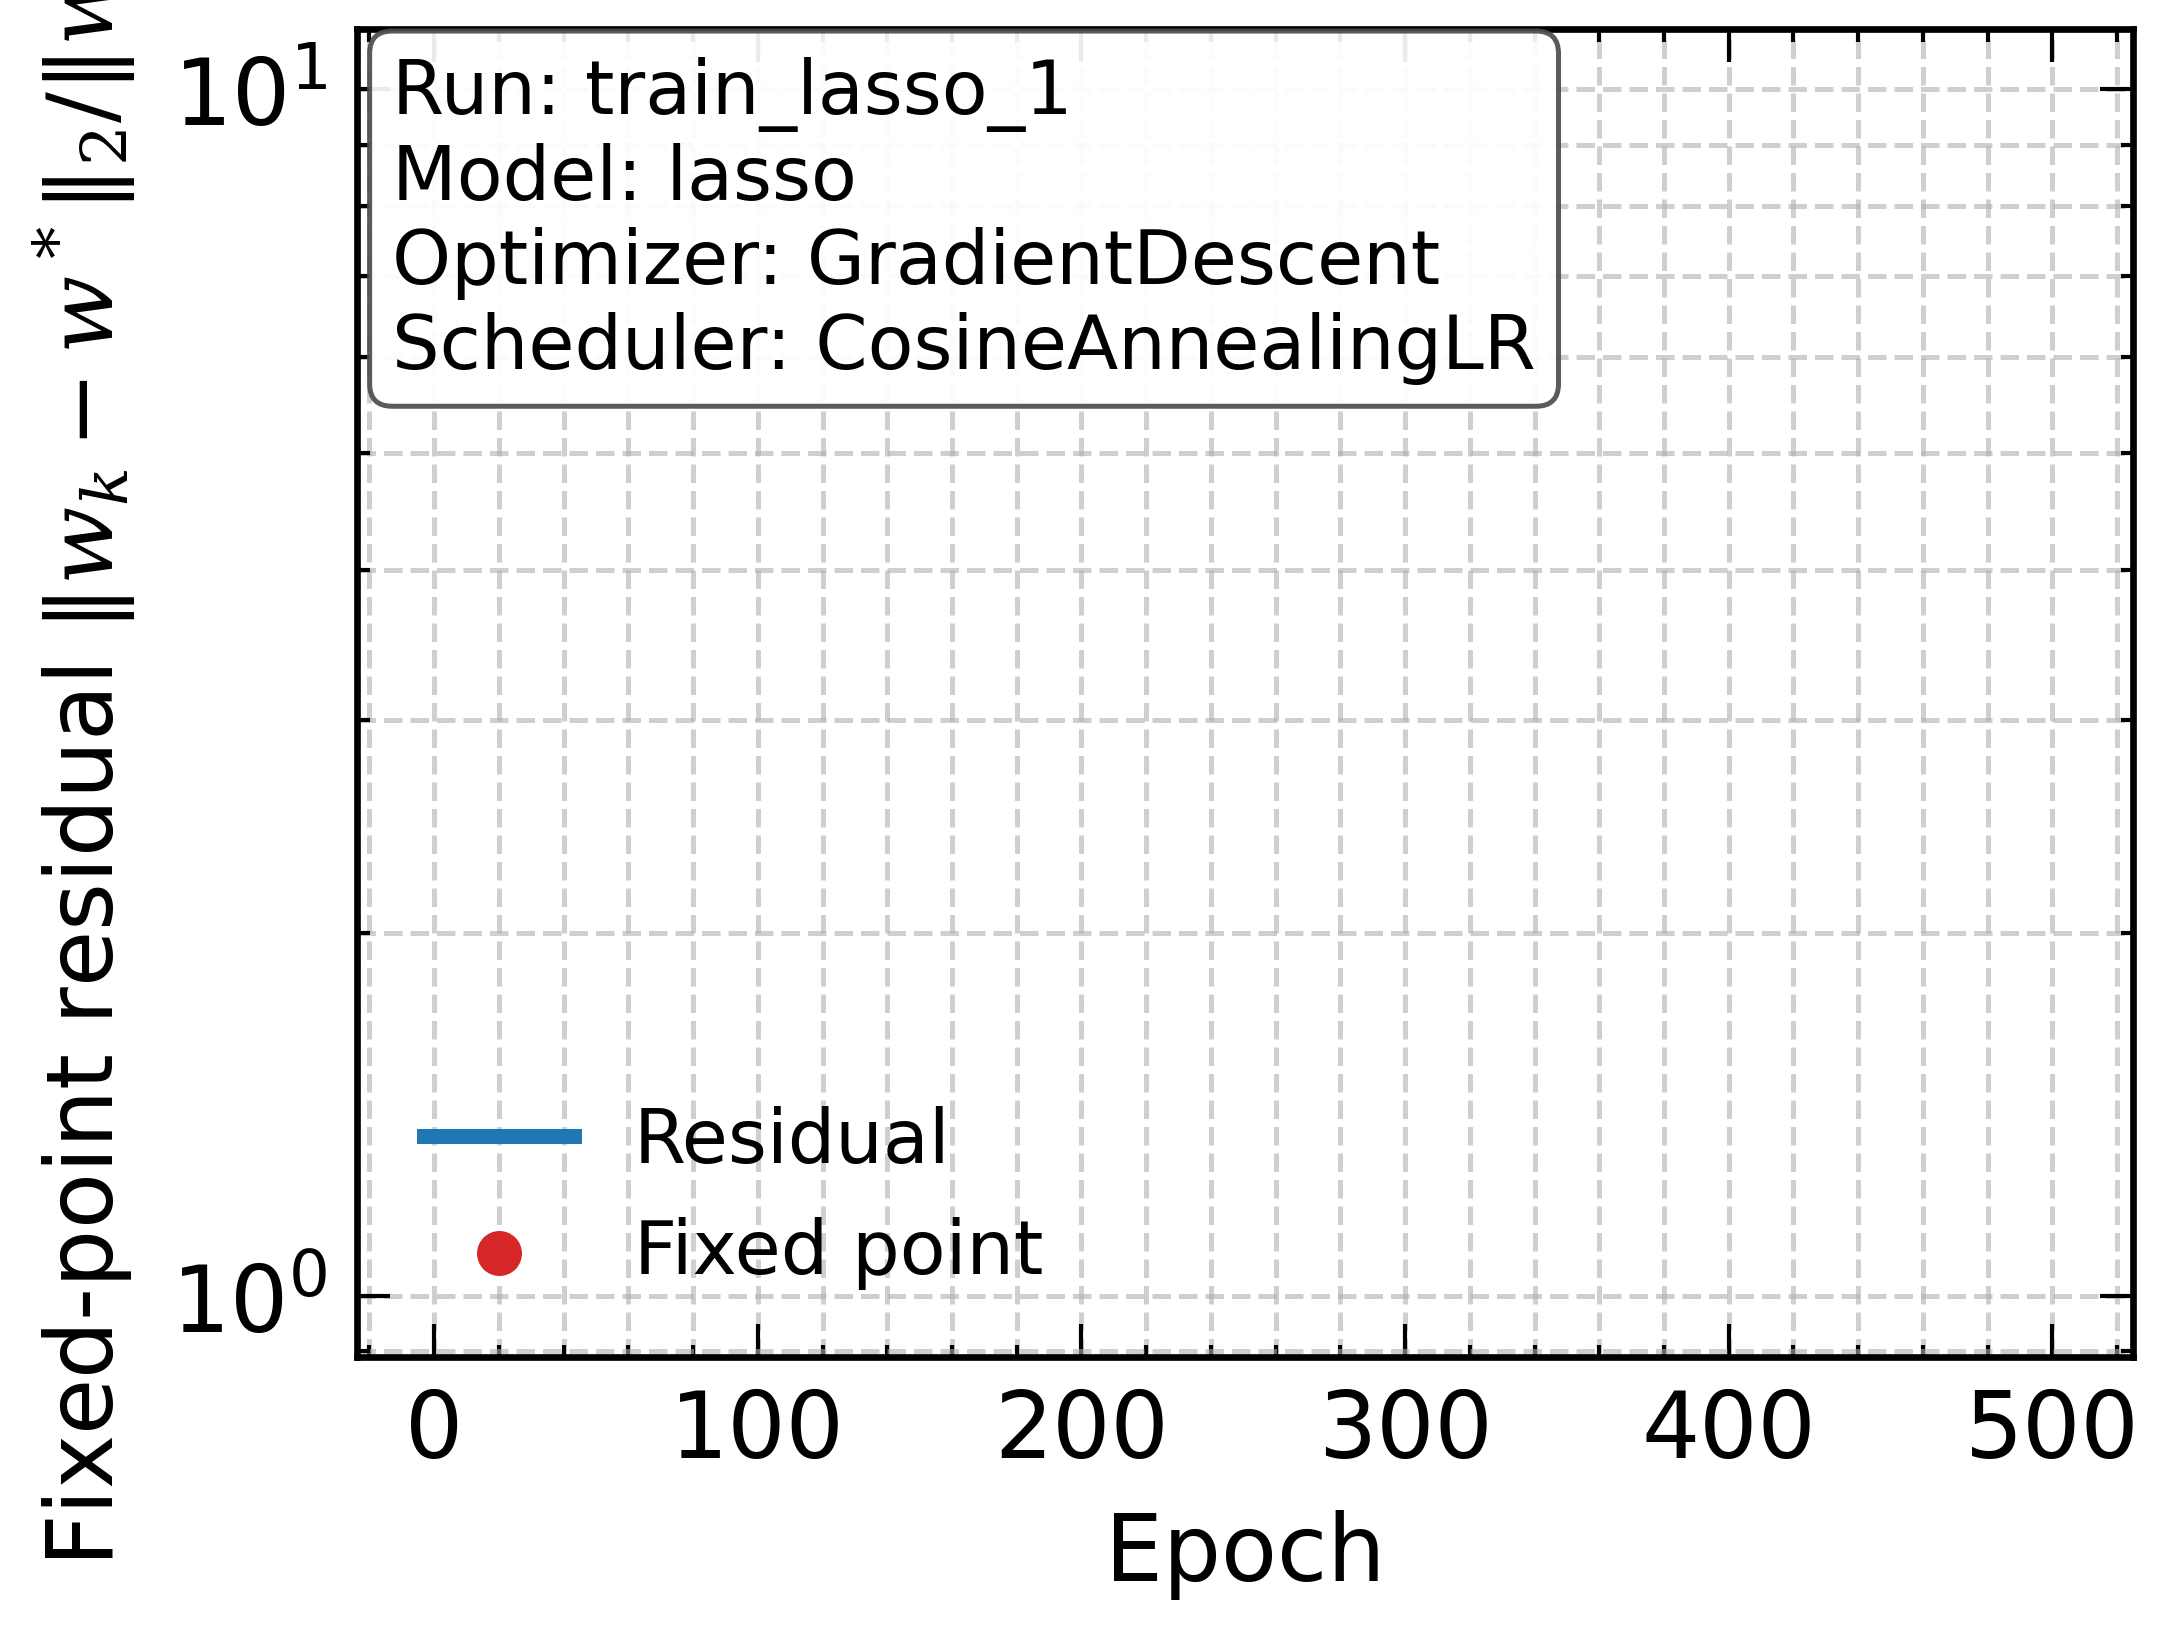
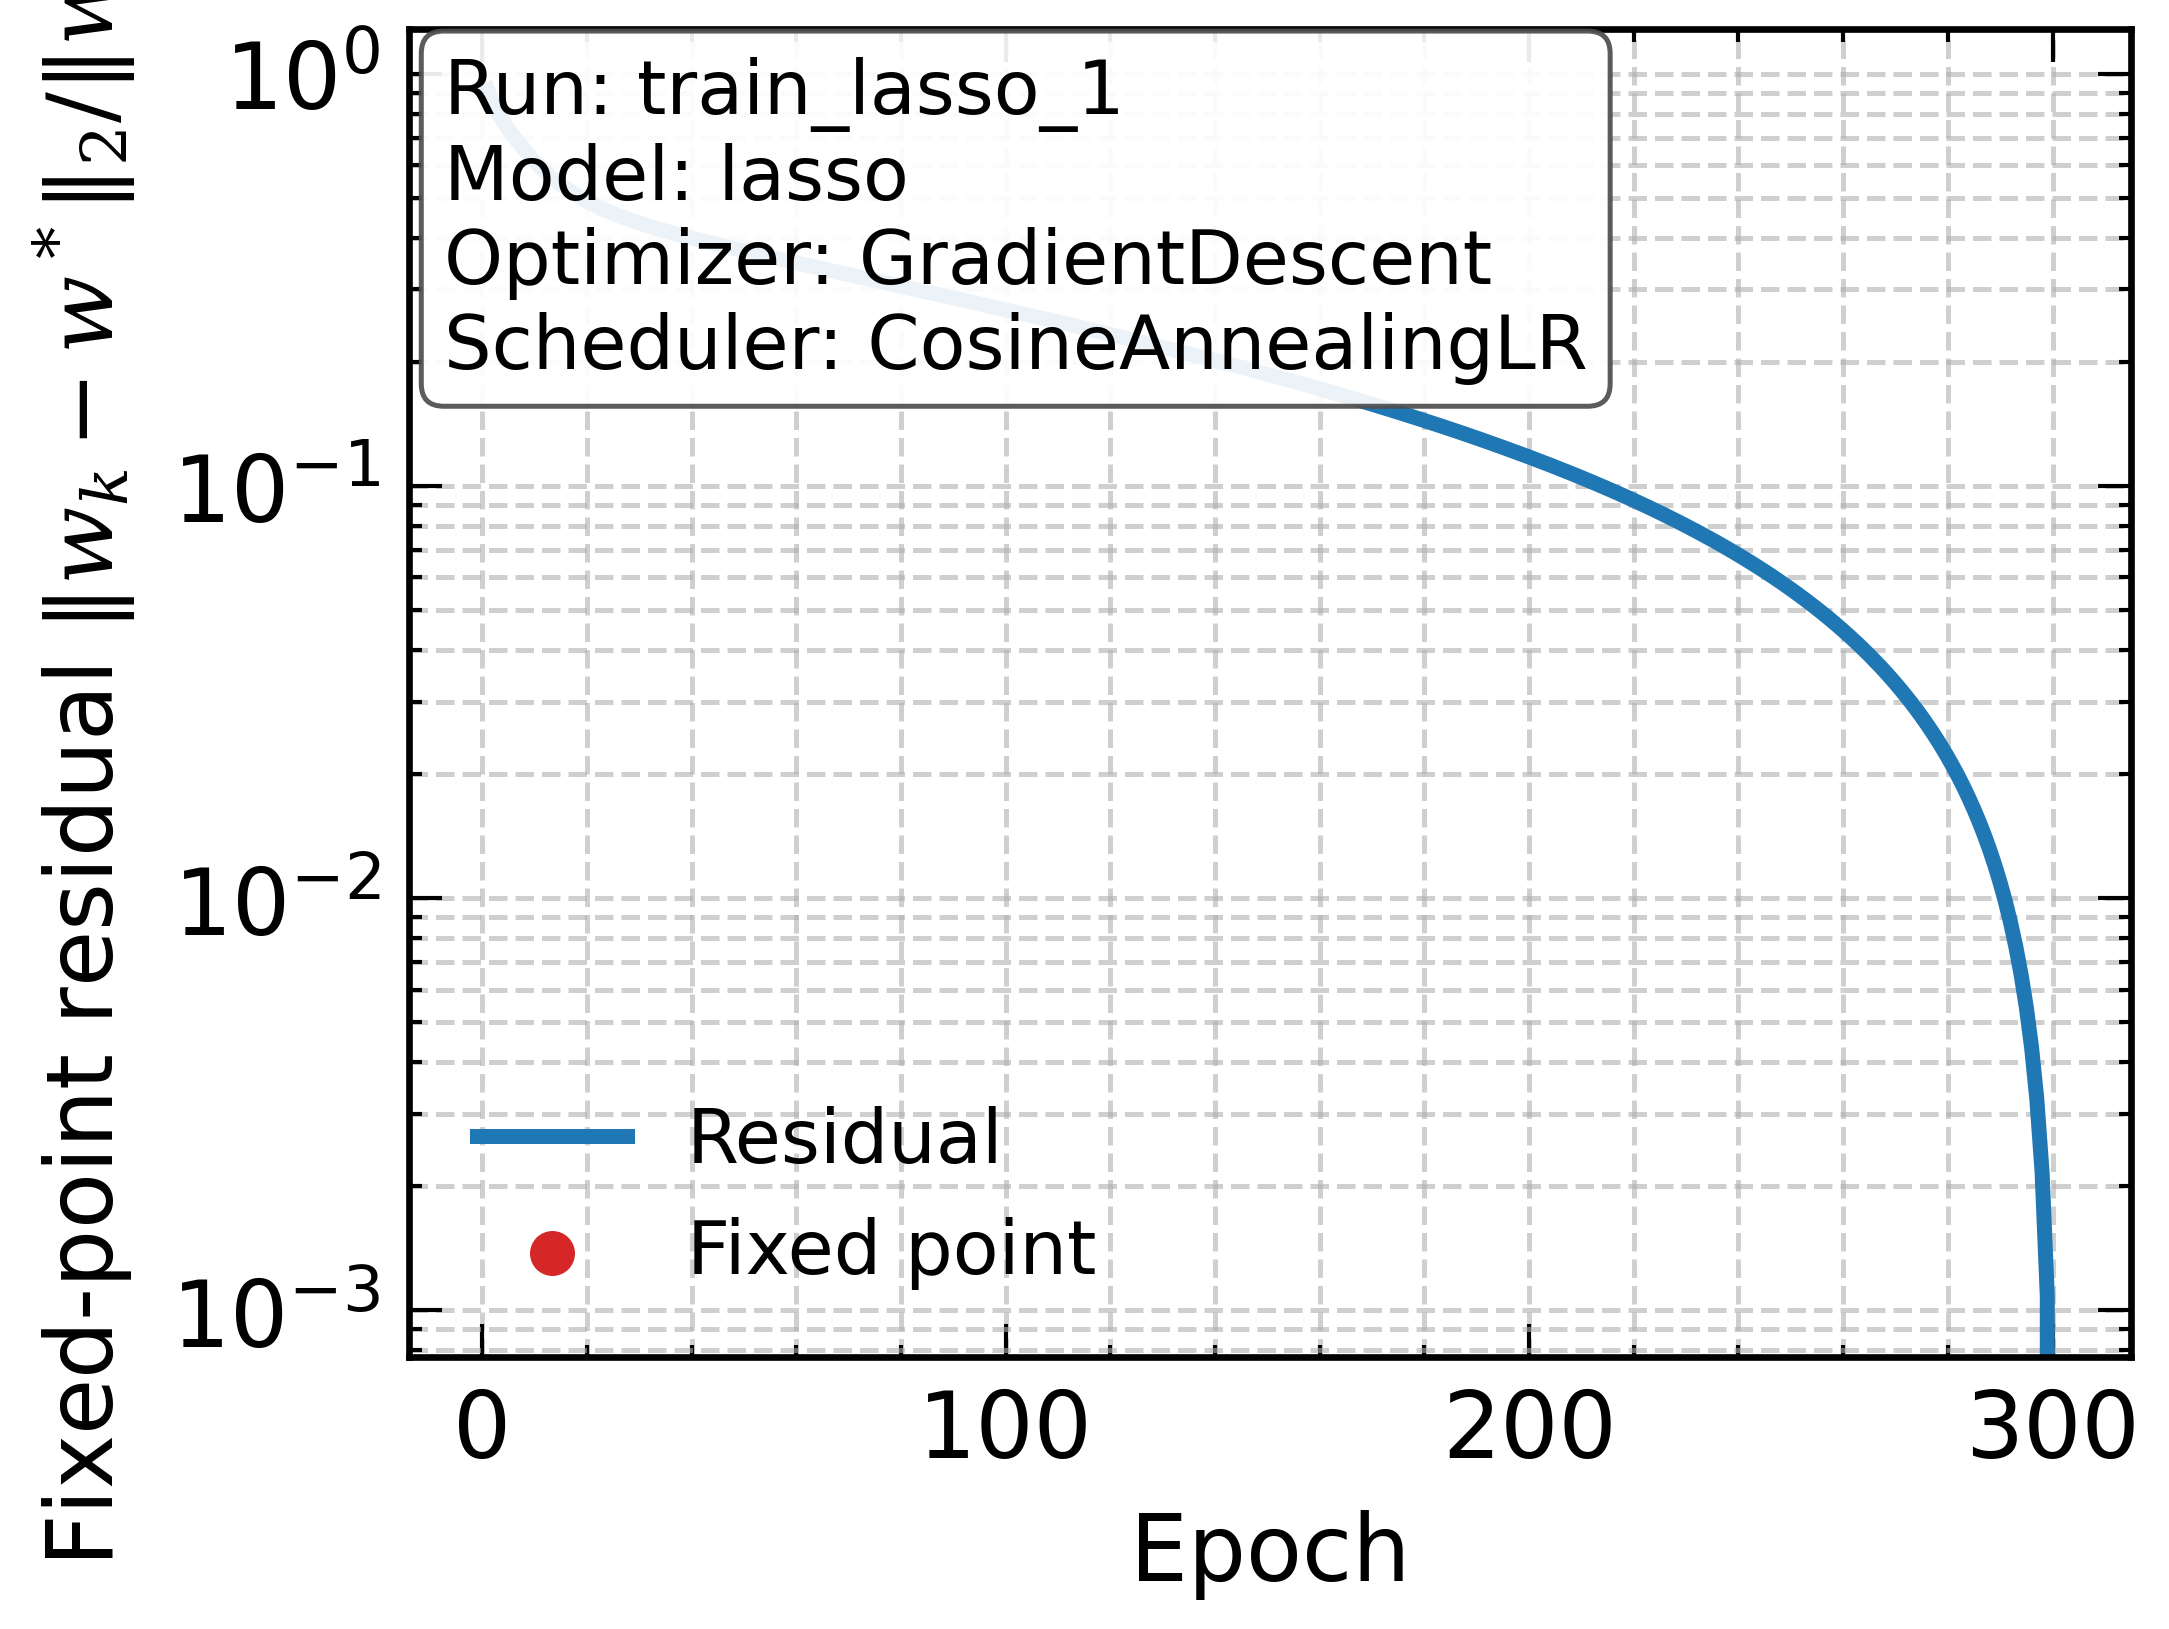
删除了线搜索方法

Changed region(s): [[0.0618, 0.0, 0.9885, 0.9208], [0.4942, 0.9208, 0.6487, 0.9822], [0.8958, 0.8594, 0.9885, 0.8901]]

diff --git a/plots.py b/plots.py
@@ -100,7 +100,7 @@ def _save_figure(fig: plt.Figure, output_path: Path, fmt: str, dpi: int):
 
 def parse_args() -> argparse.Namespace:
     parser = argparse.ArgumentParser(description="Generate fixed-point residual plot from saved weights.")
-    parser.add_argument("--weights", type=Path, required=True, help="Path to *.npz weights produced by Trainer")
+    parser.add_argument("--weights", type=Path, default=r'weights/train_lasso_1.npz', help="Path to *.npz weights produced by Trainer")
     parser.add_argument("--output", type=Path, default=None, help="Output path (directory or file stem). Defaults to figures/<run>_fixed_point.png")
     parser.add_argument("--fmt", choices=["png", "pdf", "svg"], default="png", help="Figure format")
     parser.add_argument("--dpi", type=int, default=600, help="Figure DPI for raster outputs")

diff --git a/trainer.py b/trainer.py
@@ -109,7 +109,7 @@ class Trainer:
     def _record_weights(self, epoch, weight):
         if self.save_weights:
             self.save_dict['metadata']['epochs'] = epoch
-            self.save_dict['weight'].append(weight)
+            self.save_dict['weight'].append(xp.copy(weight))
 
     def _save_weights(self):
         if self.save_weights:

diff --git a/optimizer/gd.py b/optimizer/gd.py
@@ -10,5 +10,4 @@ class GradientDescent(Optimizer):
         self.model.grad(X, y)
         # 最原始的梯度下降法
         # 小batch更新就是SDG了
-
         self.model.weight.data -= self.lr * self.model.weight.grad
